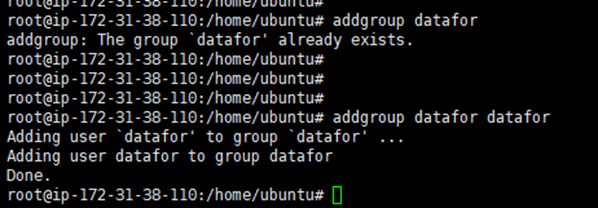
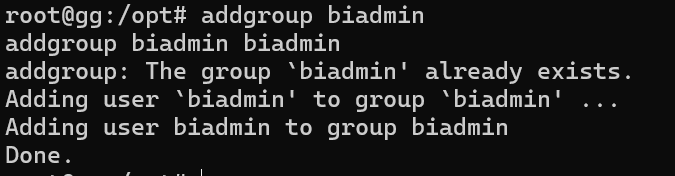
安装文档修正，截图更新

diff --git a/docs/documentation/Setup/20 Centos安装.md b/docs/documentation/Setup/20 Centos安装.md
@@ -33,7 +33,7 @@ passwd biadmin
 **Step 4. Navigate to the directory containing the installation package and extract the package to the /opt directory.**
 
 ```
-unzip -o optimibi-server_202203240605.zip -d /opt/
+unzip -o optimibi-linux-7.02.zip -d /opt/
 ```
 
 <div align="left"><img src="./images/image-20220829172446528.png"  /></div>
@@ -64,18 +64,18 @@ cd /opt/bi-server/
 **Start the service**
 
 ```
-sh start-server.sh
+./start-server.sh
 ```
 
-<div align="left"><img src="./images/image-20220829172513074.png"  /></div>
+<div align="left"><img src="./images/image-20220829171648174.png"  /></div>
 
 **Stop Service**
 
 ```
-sh stop-server.sh
+./stop-server.sh
 ```
 
-<div align="left"><img src="./images/image-20220829172525119.png"  /></div>
+<div align="left"><img src="./images/image-20220829171701208.png"  /></div>
 
 **Check Service Start/Stop Status**
 
@@ -83,7 +83,7 @@ sh stop-server.sh
 ps -ef|grep tomcat
 ```
 
-<div align="left"><img src="./images/image-20220829172541387.png"  /></div>
+<div align="left"><img src="./images/image-20220829171716368.png"  /></div>
 
 If the command produces the above output, it indicates that the service is in a running state.
 
@@ -100,4 +100,4 @@ username  /  password
 
 ## Update the System
 
-Place the update package `bi-update.jar` in the `bi-server\update` folder and restart the system.
+Place the update package such as `optimibi-update.jar` in the `bi-server\update` folder and restart the system.

diff --git a/docs/documentation/Setup/30 Ubuntu安装.md b/docs/documentation/Setup/30 Ubuntu安装.md
@@ -34,10 +34,10 @@ addgroup biadmin biadmin
 **Step 4. Navigate to the directory where the installation package is located and unzip the package to the /opt path.**
 
 ```
-unzip -o optimibi-server_202203210834.zip -d /opt/
+unzip -o optimibi-linux-7.02.zip -d /opt/
 ```
 
-<div align="left"><img src="./images/image-20220829171613825.png"  /></div>
+<div align="left"><img src="./images/image-20220829172446528.png"  /></div>
 
 **Step 5. After the extraction is complete, go to the /opt/ directory and modify permissions.**
 
@@ -46,6 +46,7 @@ cd /opt/
 chmod -R 700 bi-server
 chown -R biadmin bi-server
 chgrp -R biadmin bi-server
+ls -al bi-server
 ```
 
 <div align="left"><img src="./images/image-20220829171632512.png"  /></div>
@@ -100,4 +101,4 @@ username  /  password
 
 ## Update the System
 
-Place the update package `bi-update.jar` in the `bi-server\update` folder and restart the system.
+Place the update package `optimibi-update.jar` in the `bi-server\update` folder and restart the system.

diff --git a/docs/documentation/Setup/40 Windows安装.md b/docs/documentation/Setup/40 Windows安装.md
@@ -58,4 +58,4 @@ username  /  password
 
 ## Update the System
 
-Place the update package `bi-update.jar` in the `bi-server\update` folder and restart the system.
+Place the update package `optimibi-update.jar` in the `bi-server\update` folder and restart the system.
